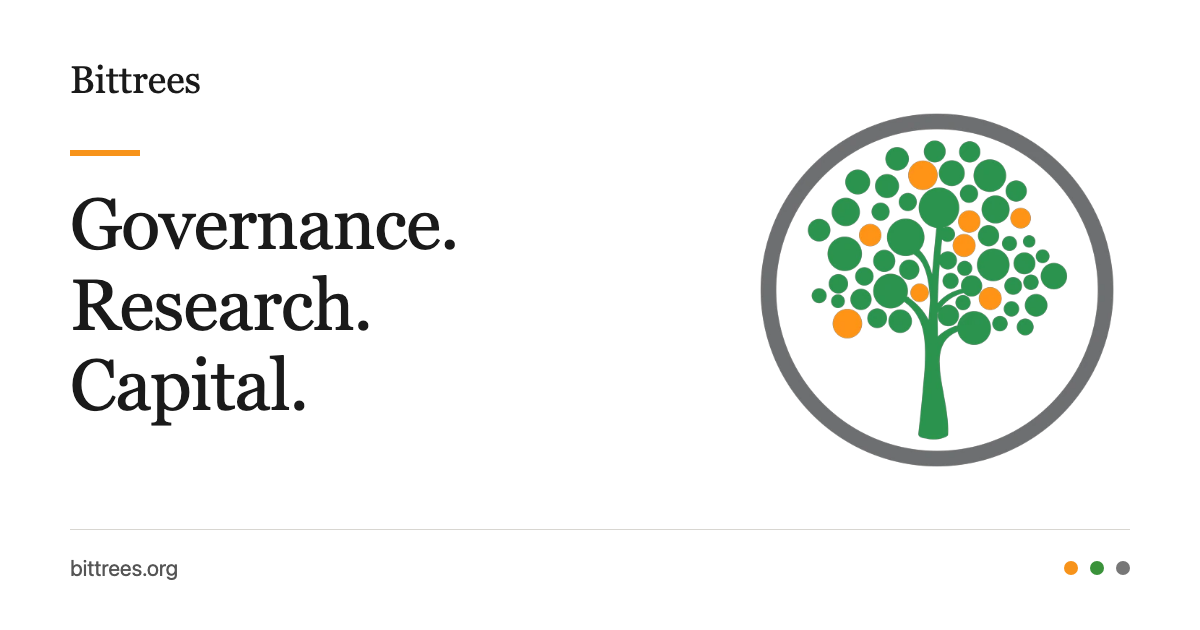
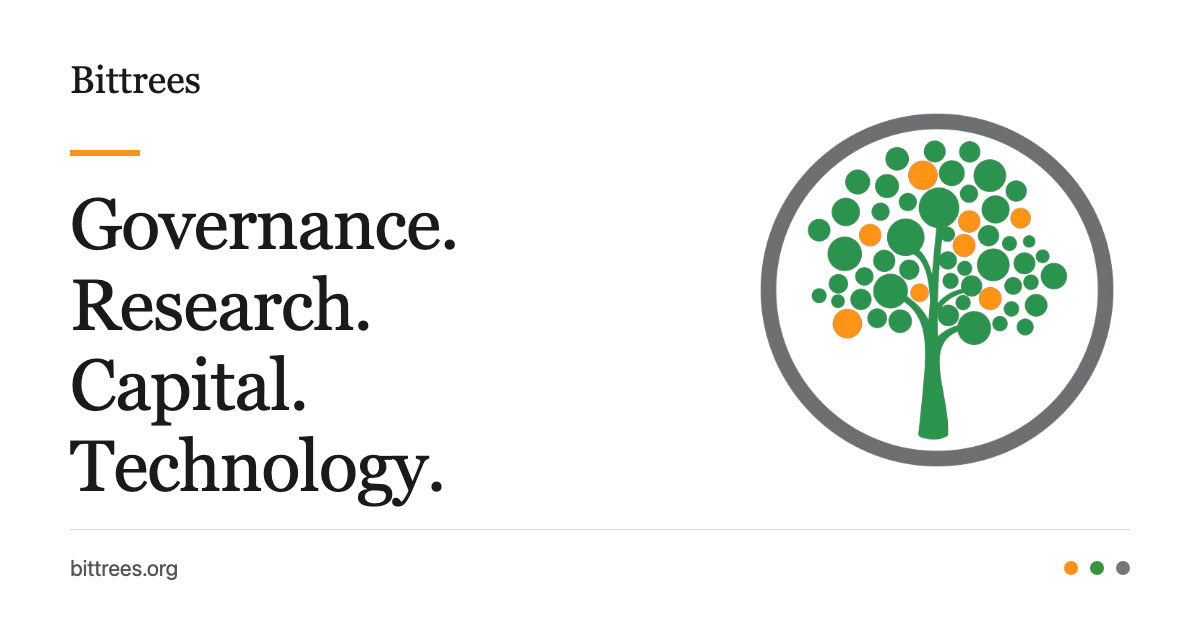
publish eCrypt on the Bittrees hub (#9)

Changed region(s): [[0.0617, 0.6937, 0.37, 0.8143]]

diff --git a/public/index.html b/public/index.html
@@ -6,14 +6,14 @@
     <meta name="theme-color" content="#ffffff" />
     <meta
       name="description"
-      content="Bittrees connects governance, research, and capital for a more collaborative future."
+      content="Bittrees connects governance, research, capital, and practical technology for a more collaborative future."
     />
     <meta name="robots" content="index, follow, max-image-preview:large" />
     <meta property="og:type" content="website" />
-    <meta property="og:title" content="Bittrees" />
+    <meta property="og:title" content="Bittrees | Governance, Research, Capital &amp; Technology" />
     <meta
       property="og:description"
-      content="Explore Bittrees governance, research, and capital."
+      content="Bittrees connects governance, research, capital, and practical technology for a more collaborative future."
     />
     <meta property="og:url" content="https://bittrees.org/" />
     <meta property="og:image" content="https://bittrees.org/social/bittrees.png" />
@@ -23,11 +23,11 @@
     <meta property="og:image:type" content="image/png" />
     <meta property="og:image:width" content="1200" />
     <meta property="og:image:height" content="630" />
-    <meta property="og:image:alt" content="Bittrees — Governance, Research, and Capital, with the Bittrees tree emblem." />
-    <meta name="twitter:title" content="Bittrees | Governance, Research, and Capital" />
-    <meta name="twitter:description" content="Explore Bittrees governance, research, and capital." />
+    <meta property="og:image:alt" content="Bittrees — Governance, Research, Capital, and Technology, with the Bittrees tree emblem." />
+    <meta name="twitter:title" content="Bittrees | Governance, Research, Capital &amp; Technology" />
+    <meta name="twitter:description" content="Bittrees connects governance, research, capital, and practical technology for a more collaborative future." />
     <meta name="twitter:image" content="https://bittrees.org/social/bittrees.png" />
-    <meta name="twitter:image:alt" content="Bittrees — Governance, Research, and Capital, with the Bittrees tree emblem." />
+    <meta name="twitter:image:alt" content="Bittrees — Governance, Research, Capital, and Technology, with the Bittrees tree emblem." />
     <link rel="icon" href="/favicon.ico" sizes="any" />
     <link rel="icon" type="image/svg+xml" href="/favicon.svg" />
     <link rel="apple-touch-icon" sizes="180x180" href="/apple-touch-icon.png" />
@@ -37,7 +37,7 @@
     <link rel="preconnect" href="https://fonts.googleapis.com">
     <link rel="preconnect" href="https://fonts.gstatic.com" crossorigin>
     <link href="https://fonts.googleapis.com/css2?family=Tinos&display=swap" rel="stylesheet">
-    <title>Bittrees | Governance, Research, and Capital</title>
+    <title>Bittrees | Governance, Research, Capital &amp; Technology</title>
     <script defer src="https://insights.bittrees.org/consent.js" data-insights-site="bittrees-org-ui"></script>
 </head>
   <body>

diff --git a/design/social-preview.html b/design/social-preview.html
@@ -1,1 +1,1 @@
-<!doctype html><html lang="en"><meta charset="utf-8"><title>Bittrees share artwork</title><style>*{box-sizing:border-box}body{margin:0;width:1200px;height:630px;padding:58px 70px;background:#fff;color:#1a1a1a;font-family:Georgia,serif}.name{font-size:38px;margin:0 0 49px}h1{font-size:72px;line-height:1.12;letter-spacing:-1px;font-weight:400;margin:0}.tree{position:absolute;right:78px;top:105px;width:370px;height:370px;object-fit:contain}.rule{height:6px;width:70px;background:#f7931a;margin-bottom:28px}footer{position:absolute;left:70px;right:70px;bottom:49px;padding-top:25px;border-top:1px solid #d8d6d1;font:22px system-ui,sans-serif;color:#555;display:flex;justify-content:space-between}.dots{display:flex;gap:12px;align-items:center}.dots i{width:14px;height:14px;border-radius:50%;background:#f7931a}.dots i:nth-child(2){background:#3a923a}.dots i:nth-child(3){background:#777}</style><body><p class="name">Bittrees</p><div class="rule"></div><h1>Governance.<br>Research.<br>Capital.</h1><img class="tree" src="../public/bittrees.png" alt=""><footer><span>bittrees.org</span><span class="dots" aria-hidden="true"><i></i><i></i><i></i></span></footer></body></html>
+<!doctype html><html lang="en"><meta charset="utf-8"><title>Bittrees share artwork</title><style>*{box-sizing:border-box}body{margin:0;width:1200px;height:630px;padding:58px 70px;background:#fff;color:#1a1a1a;font-family:Georgia,serif}.name{font-size:38px;margin:0 0 49px}h1{font-size:72px;line-height:1.12;letter-spacing:-1px;font-weight:400;margin:0}.tree{position:absolute;right:78px;top:105px;width:370px;height:370px;object-fit:contain}.rule{height:6px;width:70px;background:#f7931a;margin-bottom:28px}footer{position:absolute;left:70px;right:70px;bottom:49px;padding-top:25px;border-top:1px solid #d8d6d1;font:22px system-ui,sans-serif;color:#555;display:flex;justify-content:space-between}.dots{display:flex;gap:12px;align-items:center}.dots i{width:14px;height:14px;border-radius:50%;background:#f7931a}.dots i:nth-child(2){background:#3a923a}.dots i:nth-child(3){background:#777}</style><body><p class="name">Bittrees</p><div class="rule"></div><h1>Governance.<br>Research.<br>Capital.<br>Technology.</h1><img class="tree" src="../public/bittrees.png" alt=""><footer><span>bittrees.org</span><span class="dots" aria-hidden="true"><i></i><i></i><i></i></span></footer></body></html>

diff --git a/src/App.test.tsx b/src/App.test.tsx
@@ -22,4 +22,8 @@ test("renders the Bittrees destinations", () => {
     "href",
     "https://capital.bittrees.org"
   );
+  expect(screen.getByRole("link", { name: "eCrypt" })).toHaveAttribute(
+    "href",
+    "https://ecrypt.bittrees.org"
+  );
 });

diff --git a/README.md b/README.md
@@ -1,19 +1,21 @@
 # bittrees.org — hub
 
 The public landing page for **bittrees.org**. It's a lightweight hub that introduces
-the organization and routes visitors to the three Bittrees apps, plus a short `/info`
-page with the mission.
+the organization and routes visitors to four live Bittrees destinations, plus a short
+`/info` page with the mission and the Bittrees AI Mac preview.
 
 The Bittrees family it links out to:
 
 - **Bittrees, Inc.** — governance → [gov.bittrees.org](https://gov.bittrees.org)
 - **Research** — the members' research foundation → [research.bittrees.org](https://research.bittrees.org)
 - **Capital** — holdings & treasury → [capital.bittrees.org](https://capital.bittrees.org)
+- **eCrypt** — wallet-gated encrypted redactions → [ecrypt.bittrees.org](https://ecrypt.bittrees.org)
+- **AI — Mac preview** — local AI companion → [ai.bittrees.org](https://ai.bittrees.org)
 
 ## Pages
 
-- `/` — the hub: the Bittrees mark (which opens `/info`) over the three app cards.
-- `/info` — the mission blurb and the same three links, laid out for reading.
+- `/` — the hub: the Bittrees mark (which opens `/info`) over the four live destination cards.
+- `/info` — the mission blurb, four live links and the AI Mac preview, laid out for reading.
 
 ## Stack
 
